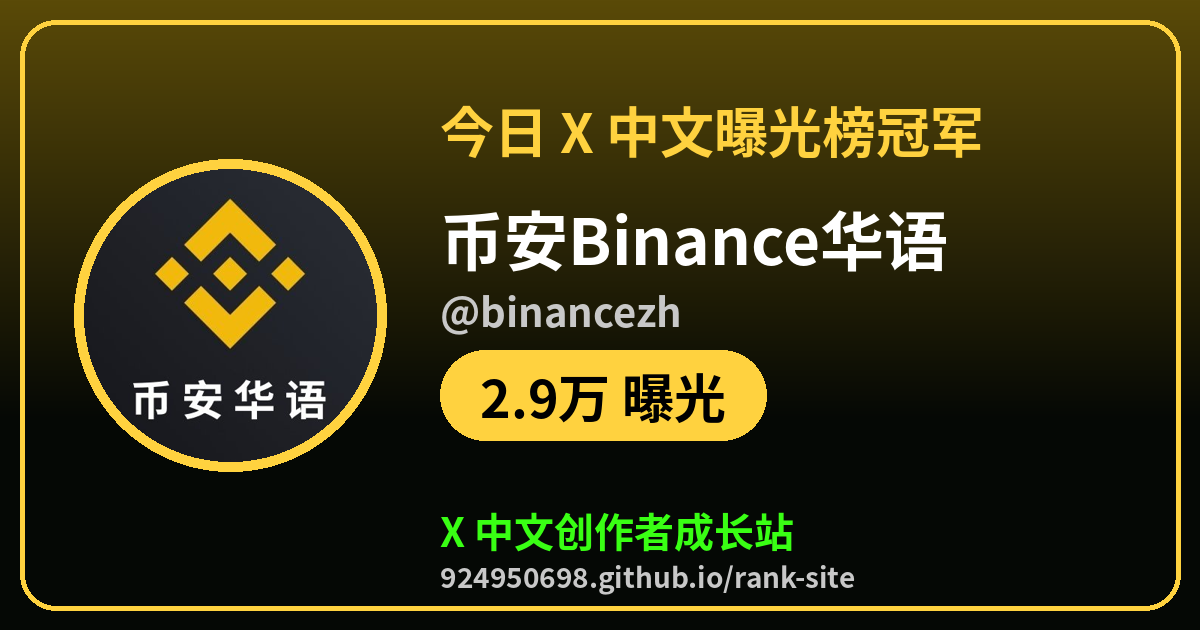
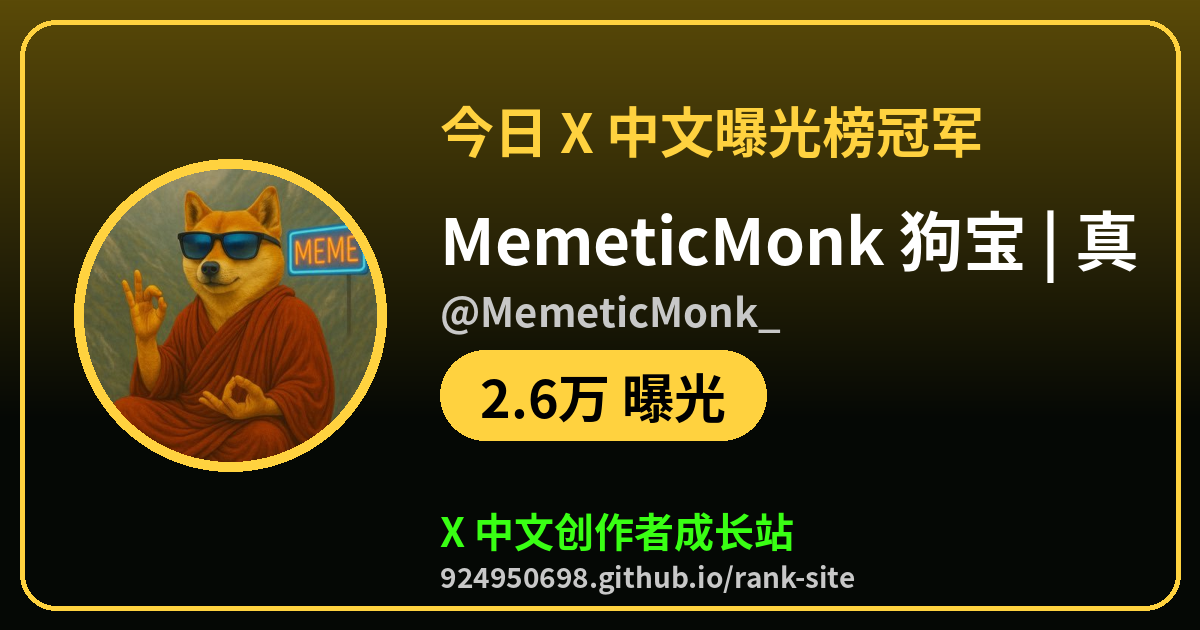
champ: 2026-10-20 17:25 CST

diff --git a/champ/exposure.html b/champ/exposure.html
@@ -1,7 +1,7 @@
 <!doctype html><html lang="zh-CN"><head><meta charset="utf-8"><meta name="viewport" content="width=device-width,initial-scale=1">
-<title>今日 X 中文曝光榜冠军：币安Binance华语（@binancezh）</title><meta name="description" content="2.9万 曝光，来看看今天谁在爆，你排第几">
-<meta property="og:type" content="website"><meta property="og:url" content="https://924950698.github.io/rank-site/champ/exposure.html"><meta property="og:title" content="今日 X 中文曝光榜冠军：币安Binance华语（@binancezh）"><meta property="og:description" content="2.9万 曝光，来看看今天谁在爆，你排第几">
-<meta property="og:image" content="https://924950698.github.io/rank-site/champ/exposure.png?v=20261020T0802"><meta name="twitter:card" content="summary_large_image"><meta name="twitter:site" content="@tigerr3aue">
-<meta name="twitter:title" content="今日 X 中文曝光榜冠军：币安Binance华语（@binancezh）"><meta name="twitter:description" content="2.9万 曝光，来看看今天谁在爆，你排第几"><meta name="twitter:image" content="https://924950698.github.io/rank-site/champ/exposure.png?v=20261020T0802">
-<meta http-equiv="refresh" content="0;url=https://924950698.github.io/rank-site/?champ=binancezh&amp;board=exposure#rank"><script>location.replace("https://924950698.github.io/rank-site/?champ=binancezh&board=exposure#rank")</script></head>
-<body style="background:#000;color:#fff;font-family:sans-serif;text-align:center;padding:40px"><a href="https://924950698.github.io/rank-site/?champ=binancezh&amp;board=exposure#rank" style="color:#39ff14">去 X 中文创作者成长站看冠军卡片</a></body></html>
+<title>今日 X 中文曝光榜冠军：MemeticMonk 狗宝 | 真帅本狗🐕（@MemeticMonk_）</title><meta name="description" content="2.6万 曝光，来看看今天谁在爆，你排第几">
+<meta property="og:type" content="website"><meta property="og:url" content="https://924950698.github.io/rank-site/champ/exposure.html"><meta property="og:title" content="今日 X 中文曝光榜冠军：MemeticMonk 狗宝 | 真帅本狗🐕（@MemeticMonk_）"><meta property="og:description" content="2.6万 曝光，来看看今天谁在爆，你排第几">
+<meta property="og:image" content="https://924950698.github.io/rank-site/champ/exposure.png?v=20261020T0905"><meta name="twitter:card" content="summary_large_image"><meta name="twitter:site" content="@tigerr3aue">
+<meta name="twitter:title" content="今日 X 中文曝光榜冠军：MemeticMonk 狗宝 | 真帅本狗🐕（@MemeticMonk_）"><meta name="twitter:description" content="2.6万 曝光，来看看今天谁在爆，你排第几"><meta name="twitter:image" content="https://924950698.github.io/rank-site/champ/exposure.png?v=20261020T0905">
+<meta http-equiv="refresh" content="0;url=https://924950698.github.io/rank-site/?champ=MemeticMonk_&amp;board=exposure#rank"><script>location.replace("https://924950698.github.io/rank-site/?champ=MemeticMonk_&board=exposure#rank")</script></head>
+<body style="background:#000;color:#fff;font-family:sans-serif;text-align:center;padding:40px"><a href="https://924950698.github.io/rank-site/?champ=MemeticMonk_&amp;board=exposure#rank" style="color:#39ff14">去 X 中文创作者成长站看冠军卡片</a></body></html>

diff --git a/champ/comments.html b/champ/comments.html
@@ -1,7 +1,7 @@
 <!doctype html><html lang="zh-CN"><head><meta charset="utf-8"><meta name="viewport" content="width=device-width,initial-scale=1">
-<title>今日 X 中文评论榜冠军：Anna汤圆🦅（@tangyuan131419）</title><meta name="description" content="438 评论，来看看今天谁在爆，你排第几">
-<meta property="og:type" content="website"><meta property="og:url" content="https://924950698.github.io/rank-site/champ/comments.html"><meta property="og:title" content="今日 X 中文评论榜冠军：Anna汤圆🦅（@tangyuan131419）"><meta property="og:description" content="438 评论，来看看今天谁在爆，你排第几">
-<meta property="og:image" content="https://924950698.github.io/rank-site/champ/comments.png?v=20261020T0802"><meta name="twitter:card" content="summary_large_image"><meta name="twitter:site" content="@tigerr3aue">
-<meta name="twitter:title" content="今日 X 中文评论榜冠军：Anna汤圆🦅（@tangyuan131419）"><meta name="twitter:description" content="438 评论，来看看今天谁在爆，你排第几"><meta name="twitter:image" content="https://924950698.github.io/rank-site/champ/comments.png?v=20261020T0802">
+<title>今日 X 中文评论榜冠军：Anna汤圆🦅（@tangyuan131419）</title><meta name="description" content="484 评论，来看看今天谁在爆，你排第几">
+<meta property="og:type" content="website"><meta property="og:url" content="https://924950698.github.io/rank-site/champ/comments.html"><meta property="og:title" content="今日 X 中文评论榜冠军：Anna汤圆🦅（@tangyuan131419）"><meta property="og:description" content="484 评论，来看看今天谁在爆，你排第几">
+<meta property="og:image" content="https://924950698.github.io/rank-site/champ/comments.png?v=20261020T0905"><meta name="twitter:card" content="summary_large_image"><meta name="twitter:site" content="@tigerr3aue">
+<meta name="twitter:title" content="今日 X 中文评论榜冠军：Anna汤圆🦅（@tangyuan131419）"><meta name="twitter:description" content="484 评论，来看看今天谁在爆，你排第几"><meta name="twitter:image" content="https://924950698.github.io/rank-site/champ/comments.png?v=20261020T0905">
 <meta http-equiv="refresh" content="0;url=https://924950698.github.io/rank-site/?champ=tangyuan131419&amp;board=comments#rank"><script>location.replace("https://924950698.github.io/rank-site/?champ=tangyuan131419&board=comments#rank")</script></head>
 <body style="background:#000;color:#fff;font-family:sans-serif;text-align:center;padding:40px"><a href="https://924950698.github.io/rank-site/?champ=tangyuan131419&amp;board=comments#rank" style="color:#39ff14">去 X 中文创作者成长站看冠军卡片</a></body></html>
